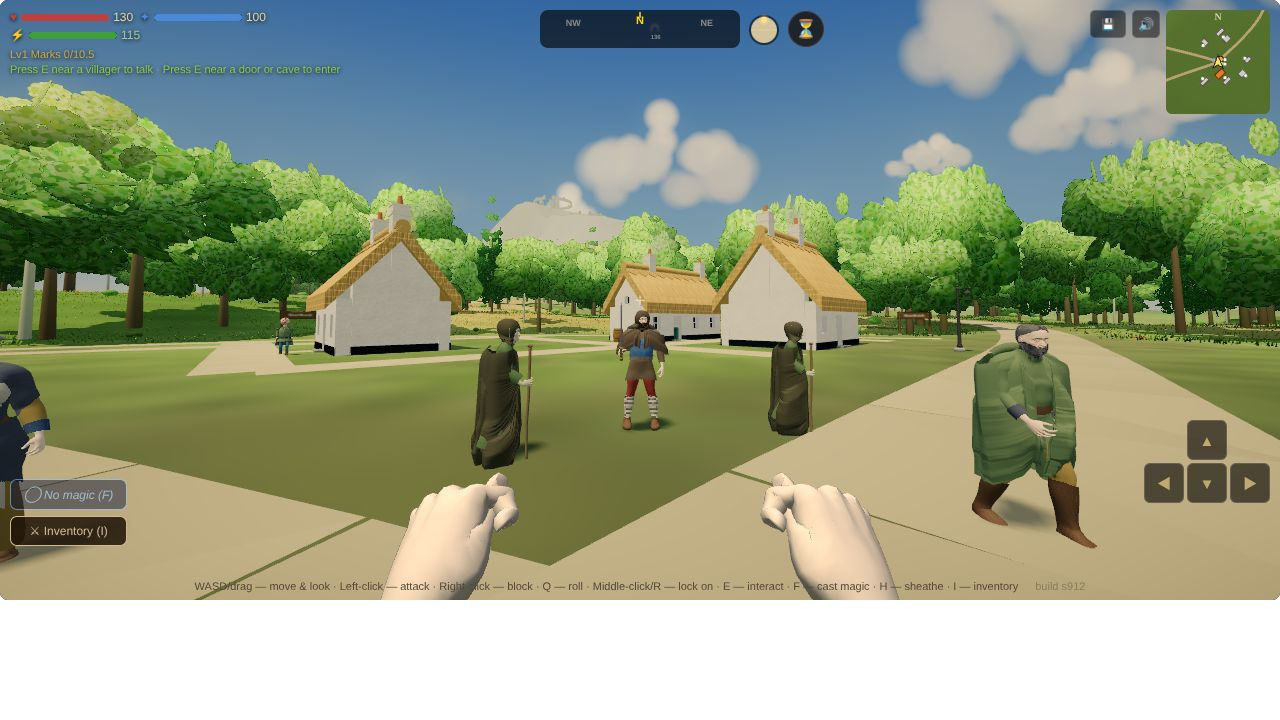
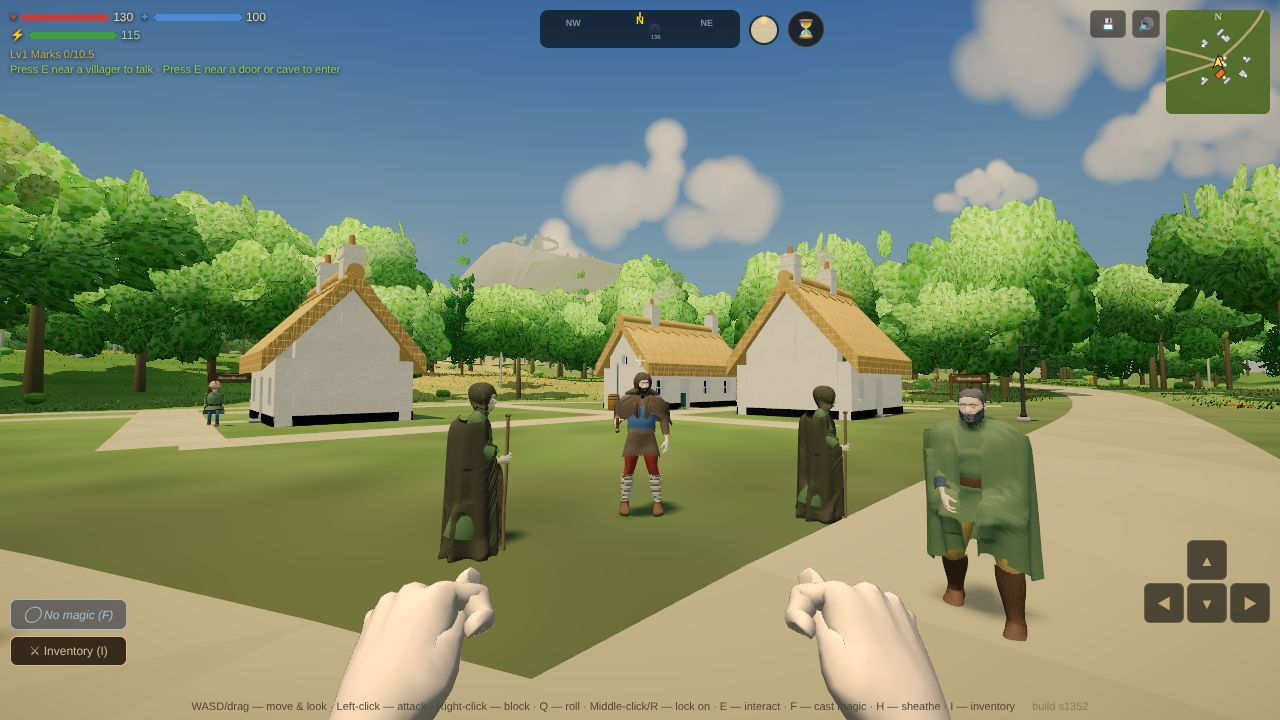
Bodies: Session 1977 — an old townsperson's walking staff goes down with the left foot and stays down
pwStaffWalk swings the staff arm with the left foot; hbStaffWalk pins the builder's
staff foot to the ground through that foot's stance (elbow solve, then shoulder aim)
and carries it on through the swing. gait: a new check (0 mm slide, 0 mm deep;
main 16.6 mm a tick, 49 mm deep).

Claude-Session: https://claude.ai/code/session_019eFMMoQ7EsSKyvhjHzmG3K

diff --git a/js/32-people.js b/js/32-people.js
@@ -1205,7 +1205,14 @@ function pwWalk(ph,o){const p=pwZero();const S=PW.STRIDE,D=PW.DUTY,phL=ph%1,phR=
   if(lim)pwShamble(p,c,s,lim,bs);
   if(o.goblin){pwGoblin(p,.3*c);p.thL[2]+=.1;p.thR[2]-=.1;p.anL[2]-=.1;p.anR[2]+=.1;}
   if(o.wraith)pwWraith(p,ph*6.28); // the game never walks a wraith (tickPeople); the inspector's walk shows it reaching as it glides
-  if(o.holds)pwHold(p,-.08*c,o.gear);return p;}
+  if(o.holds){pwHold(p,-.08*c,o.gear);if(o.staff)pwStaffWalk(p,phL);}return p;}
+// S1977 (L1, OG-001/OG-065: the old who walk leaning on a staff; owed since Session 1130) — a staff in the right fist goes down with the
+// left foot and stays where it went down while that foot carries the body, then swings on with it, as a stick is used: the right
+// upper arm follows the left foot's way under the body (PW.STAFF.REACH, the shoulder to the staff's foot in figure units) and the trunk
+// leans forward onto it. The builder's body plants the foot exactly (hbStaffWalk); this is the swing that brings it near
+PW.STAFF={REACH:1.19,LEAN:.06};
+function pwStaffWalk(p,f){const S=PW.STRIDE,D=PW.DUTY;let z;if(f<D)z=S-2*S*(f/D);else{const u=(f-D)/(1-D);z=-S+2*S*u*u*(3-2*u);}
+  p.shR[0]=-.12-Math.asin(pwClamp(z/PW.STAFF.REACH));p.spine[0]+=PW.STAFF.LEAN;}
 // S535 — a goblin (Michael, the inspector: "Looks a bit too friendly/humanoid", distort and contort it): crouched and hunched,
 // the head thrust forward on the neck so the face stays up, the long arms hanging wide and swinging (sw)
 function pwGoblin(p,sw){p.spine[0]+=.38;p.neck[0]-=.32;p.head[0]-=.06;
@@ -1254,7 +1261,7 @@ function pwWave(t,o){const p=pwIdle(t,o);const w=Math.sin(t*7.5);
   else{p.shR=[-.25,0,-2.35];p.elR=[0,-.2,-.55+.42*w];p.wrR=[0,0,.25*w];p.neck=[0,-.18,0];p.head=[.04,0,-.08];p.spine=[p.spine[0],-.06,.03];}
   return p;}
 // the pose options a rig walks and stands with; a ghoul limps on the leg its seed picks (S534)
-function pwOpts(rig){const g=rig.g;return {holds:rig.holds,gear:g.gear,elder:g.age==='elder',limp:g.ghoul?((g.seed>>>0)%2?1:-1):0,goblin:!!g.goblin,wraith:!!g.wraith,stoop:rig.stoop||0};}
+function pwOpts(rig){const g=rig.g,hd=rig.hbG&&rig.hbG.dress;return {holds:rig.holds,gear:g.gear,staff:g.gear==='stick'&&(!rig.hbG||!!(hd&&hd.staff)),elder:g.age==='elder',limp:g.ghoul?((g.seed>>>0)%2?1:-1):0,goblin:!!g.goblin,wraith:!!g.wraith,stoop:rig.stoop||0};}
 // blend toward the chosen motion over about a third of a second
 // S210 — a crouch on the haunches, leaning forward with the head up, the hands down by the feet: the gargoyle's statue pose
 function pwCrouch(t,o){const p=pwZero();const h=.2,z=.07;const [th,kn]=pwIK(z,-h);
@@ -1996,7 +2003,35 @@ function hbPose(rig){const H=rig.hb,B=rig.B,map=H.map,grip=H.grip&&rig.holds&&!r
     hbRel(B[j],rig.root,_hbq).multiply(H.s0[i]);if(hf>0&&H.hold.has(i)){const k=rig.tpHold?hf*(rig.tpHold[j.slice(-1)]||0):hf;if(k>0)_hbq.copy(_hbqA.copy(_hbq).slerp(_hbqH,k));}_hbq.multiply(H.t0[i]);
     if(b.parent&&b.parent!==H.P.root){hbRel(b.parent,H.root,_hbq2).invert();b.quaternion.copy(_hbq2.multiply(_hbq));}else b.quaternion.copy(_hbq);}
   const hp=B.hips.position,rb=map[0][1];_hbv.set(hp.x,hp.y-PW.HIPS,hp.z).applyMatrix3(H.A);_hbv.y*=H.kh;rb.position.copy(H.pos0).add(_hbv.applyMatrix3(H.Bi));
-  if(grip&&rig.thrust>0){const wb=(map.find(m=>m[0]==='wrR')||[])[1],sp=wb&&foeSpearOf(rig,H.root,wb);if(sp)foeSpearAim(rig,wb,sp);}}
+  if(grip&&rig.thrust>0){const wb=(map.find(m=>m[0]==='wrR')||[])[1],sp=wb&&foeSpearOf(rig,H.root,wb);if(sp)foeSpearAim(rig,wb,sp);}
+  if(grip&&!rig.foe)hbStaffWalk(rig);}
+// S1977 — the staff planted (L1; pwStaffWalk swings it near): while the left foot is down the staff's foot stays on the ground where it
+// went down, and through the left foot's swing it is carried on to the next, lifted HB_STAFF.LIFT at the middle, by bending the right
+// elbow and turning the upper arm toward it. Its weight is the walk's, so standing, running
+// or a blow the arm is the pose's. Only the builder's own staff, on townsfolk; the far driver keeps pwStaffWalk's swing. The elbow does
+// most of it: the arm hangs nearly straight down the staff (164° at the elbow), and as the body passes over the foot the shoulder comes
+// 7 cm nearer it, which takes up to 0.67 rad more bend (HB_STAFF.BEND)
+const HB_STAFF={LIFT:.05,TURN:1,BEND:1},_hbsT=new THREE.Vector3(),_hbsA=new THREE.Vector3(),_hbsB=new THREE.Vector3(),_hbsP=new THREE.Vector3(),_hbsQ=new THREE.Quaternion(),_hbsR=new THREE.Quaternion();
+function hbStaffWalk(rig){const H=rig.hb,w=rig.w;
+  if(H.staffW===undefined){let st=null;H.root.traverse(o=>{if(o.name==='staff')st=o;});const ua=(H.map.find(m=>m[0]==='shR')||[])[1],la=(H.map.find(m=>m[0]==='elR')||[])[1];
+    H.staffW=st&&ua&&la?{st,ua,la,P:null,from:null,on:false}:null;}
+  const S=H.staffW;if(!S||!w)return;const k=Math.max(0,Math.min(1,(w.walk||0)-(w.run||0)-(w.wave||0)));if(k<.02||rig.thrust>0){S.P=null;S.on=false;return;}
+  H.root.updateMatrixWorld(true);S.st.getWorldPosition(_hbsT);
+  const open=activeZoneId==='world'&&!hbIndoors()&&typeof worldH==='function',gy=(x,z)=>{rig.root.getWorldPosition(_hbsP);return open?_hbsP.y+worldH(x,z)-worldH(_hbsP.x,_hbsP.z):_hbsP.y;};
+  const f=(rig.phase%1+1)%1,D=PW.DUTY,tg=_hbsB;
+  if(f<D){if(!S.on||!S.P){S.P=new THREE.Vector3(_hbsT.x,gy(_hbsT.x,_hbsT.z),_hbsT.z);S.on=true;}tg.copy(S.P);}
+  else{if(S.on){S.from=S.P;S.on=false;}const u=(f-D)/(1-D),e=u*u*(3-2*u);tg.set(_hbsT.x,gy(_hbsT.x,_hbsT.z)+HB_STAFF.LIFT*Math.sin(Math.PI*u),_hbsT.z);if(S.from)tg.lerp(S.from,1-e);}
+  tg.lerp(_hbsT,1-k);
+  // the elbow first, bent in the plane of the arm and the staff until the shoulder reaches the staff's foot as far as the target is;
+  // then the upper arm turned to aim it there
+  S.ua.getWorldPosition(_hbsP);S.la.getWorldPosition(_hbsA);const a=_hbsA.distanceTo(_hbsP),b=_hbsA.distanceTo(_hbsT),es=_hbsP.clone().sub(_hbsA),et=_hbsT.clone().sub(_hbsA);
+  const c=Math.max(Math.abs(a-b)+1e-3,Math.min(a+b-1e-3,tg.distanceTo(_hbsP))),g0=es.angleTo(et),g1=Math.acos(pwClamp((a*a+b*b-c*c)/(2*a*b))),n=es.clone().cross(et);
+  if(n.lengthSq()>1e-10)hbStaffTurn(S.la,_hbsQ.setFromAxisAngle(n.normalize(),Math.max(-HB_STAFF.BEND,Math.min(HB_STAFF.BEND,g1-g0))));
+  S.st.getWorldPosition(_hbsT);_hbsA.subVectors(_hbsT,_hbsP);const t2=tg.clone().sub(_hbsP);
+  if(_hbsA.lengthSq()>1e-8&&t2.lengthSq()>1e-8){_hbsQ.setFromUnitVectors(_hbsA.normalize(),t2.normalize());const ang=2*Math.acos(Math.min(1,Math.abs(_hbsQ.w)));
+    if(ang>HB_STAFF.TURN)_hbsQ.slerp(_hbsR.identity(),1-HB_STAFF.TURN/ang).normalize();hbStaffTurn(S.ua,_hbsQ);}}
+// a bone turned by a rotation given in the world's frame, its children with it
+function hbStaffTurn(b,q){b.parent.getWorldQuaternion(_hbsR);b.getWorldQuaternion(_hbq3);b.quaternion.copy(_hbsR.invert().multiply(q.multiply(_hbq3)));b.updateMatrixWorld(true);}
 // a foe's glow: the driver's emissive on every material of the builder's body, and the parry's stagger (which swaps the driver's
 // material for a yellow clone, 74-strikes.js) as a strong gold; the materials the kill clones are the ones on the meshes now
 function hbGlow(rig){const H=rig.hb,m=rig.mesh.material;let em=m&&m.emissive?m.emissive.getHex():0;if(m!==H.drv&&m&&m.color&&m.color.getHex()===0xffdd44)em=0xb08010;

diff --git a/docs/backlog.md b/docs/backlog.md
@@ -554,7 +554,7 @@ Michael marked all 96 images of the intake on the review page: 63 KEEP and 33 NO
 - **The Old Blood's look** (look builder; OG-066): keep the canon body (short, slight, grey-pale, black hair) and take the dress: dark asymmetric layers over undyed linen, dot embroidery, a stone-and-iron amulet; bone, ash, slate, oxblood, dusk violet; OG-066's eye strip for the Cold's greying eyes. The marks are pale raised lines under the skin, not ink, and they spread with the Cold (Michael's 2 B; canon §3.1). **The stone-and-iron amulet and the belt's charms, in the builder, Session 1042** (bodies builder; `people.js` `buildBeltCharms`, `D.amulet`, `D.charms`, `builder-charms-*.jpg`): a round stone 4.4 cm across in slate, ash or dusk grey-violet, bound in iron (rim, a strap down its face, a boss, a bail), hung 4.5 cm under the belt's lower edge on the left hip (three in ten on the right) on a leather thong; beside it a boar's tooth bound at the root, a small iron ring and an oxblood stone bead, each on its own thong lying over the cloth; 23 of 40 Old Blood roll the amulet and 21 the charms; owed: the game (after F4); ~~the dot embroidery's laying~~ — done, Session 1142 (Michael's A on #432, asked in Session 1125 for the critic's "oxblood dots on cream read as spatter": powdered by default, every colour kept, `builder-dots-powder-*.jpg`; the drifts kept for a genome that asks for `'drift'`); ~~the dark asymmetric layers and the single shoulder wrap~~ — done, Session 1051 (`buildSash(…, { wrap: true })`, `D.shoulderWrap`, `builder-swrap-*.jpg`: the sash's loop built wide in plain dark wool, 17 cm over the shoulder, 30 over the chest and back, 13 at the hip, five folds laid outward, 11,520 tris; hair under it cut, so it goes in under; the amulet moves to the shoulder's side; 7 of 60 Old Blood roll it; whether OG-066 also means a second, cut-away over-layer wants its full image); ~~the marks under the skin~~ — done, Session 1052 (`markSkin` in the skin's shader, `G.marks` the Cold, `builder-marks-*.jpg`: pale raised branching lines at both wrists, the backs of the hands and the shoulder blades, carried up the arm to the cheek as the Cold rises from 0 to 1; 95 of 120 Old Blood marked, 15 carrying the Cold; ~~the eye strip for the Cold's greying eyes~~ — done, Session 1053 (the same `cold` takes the eyes toward an ice grey and deepens the pallor, on `makePerson`'s copy only; `builder-cold-face0.jpg`, `-face1.jpg`)); ~~the dot embroidery~~ — done, Session 1043 (`DOTS` in `clothMat`, `D.dots`, `builder-dots-*.jpg`: knots of thread 2 to 4 mm across scattered in drifts over the tunic, and over a skirt of the tunic's own cloth; oxblood, slate or dusk violet on undyed linen, bone on a dark tunic; 47 of 120 Old Blood roll it).
 - **Proportions for people** (look builder, `32-people.js`; OG-012, OG-095; Michael's 1 B): the heroic hybrid, about 1.80 m, slightly longer legs and broader shoulders than naturalistic, so a figure reads at a distance and in a fight. Leave room for the short Old Blood and the tall Markmen on either side.
 - **The creator, with the four peoples** (interface; OG-050): a list of choices on the left, the portrait on the right, six builds (default, stout, lean, tall, young, mature), five silhouettes, a hair-and-beard strip. Its races become the four peoples, Old Blood included (§2.2).
-- **Children, the old and the hurt in towns** (look builder and systems; OG-081, OG-001, OG-065): child-scale people (the towns have only Finn), the elderly, scars and eyepatches, a veteran in a wheeled chair (Garrick), large and small builds. ~~**Scars and eyepatches**~~ — done, Session 1079 (bodies builder; `people.js` `scarSkin`, `G.scar`, `buildEyepatch`, `D.eyepatch`, `builder-hurt-*.jpg`: an old cut from over the brow across the eye to the cheek drawn in the skin's shader, paler, raised and stitched, a gap in the brow; a leather patch 5 by 3.8 cm spanning the socket 1.3 mm off the face on a cord looped over the far temple and the near ear, nothing through either; 1 man in 14 and 1 woman in 40 scarred, a quarter of them patched); ~~**Children**~~ — done, Session 1081 (bodies builder; MakeHuman's child targets in the pack, the age slider from 11, `rollGenome(seed, { people, child: true })`, `builder-children*.jpg`: 11 to 15 years old, 79 to 93 per cent of their people's stature, dressed as their people, nothing a grown body carries, cloaks cut to them; every hair style clear on a child of 11); ~~**The old**~~ — done, Session 1082 (bodies builder; `rollGenome(seed, { people, old: true })`, `pose.stoop`, `builder-old-*.jpg`: 64 to 90, the hair to white or iron grey, a stoop in the upper back on six in ten with the arms still plumb); ~~**The old's walking staff**~~ — done, Session 1085 (bodies builder; `people.js` `buildStaff`, `STAFFS`, `D.staff`, `D.staffMake`, `builder-staff-*.jpg`: in the right fist on the spear's grip, its foot on the ground, bent about a centimetre and true through the fist; a hazel staff with its root knob for the Gatelands, ash shod in iron for the Mark, olive with a bronze knob for Aurenne, and OG-042's and OG-065's tall staff carved in knotwork for the Old Blood; on 25 to 39 of sixty old, none of the grown or the children); ~~a grip that leans on the staff~~ — done, Session 1094 (`STAFF_ARM`: the forearm dropped 38° forward and down, the fist at the belt, 57 to 59 per cent up the body, the staff's foot 8 to 16 cm ahead of the toes; `builder-staff-*.jpg`); ~~the wheeled chair~~ — done, Session 1106 (bodies builder; `people.js` `buildChair`, `SEAT`, `D.chair`, `builder-chair-*.jpg`: Garrick seated, the thighs level and the shins sloped to a footboard, the forearms laid on the chair's arms with the palms turned down over their ends; an oak armchair built to the seated body, 7,700 tris, on two iron-tyred cart wheels 62 cm across and two small ones under the front legs, push handles behind; nothing that hangs to the ground is worn in it, and it is never rolled); ~~his black wolfhound~~ — done, Session 1107 (`creatures.js` `wolfhound`, `HOUNDS`, `creatures-hounds.jpg`: the kit's first dog, a rough-coated sighthound on the wolf's parts, 81 cm at the top of the legs against the grey wolf's 74, deep in the chest and tucked up in the loin, a long narrow head with its ears folded back, 33 bones, 40,164 tris); ~~the crossbow across his knees~~ — done, Session 1116 (`people.js` `buildLapCrossbow`, `builder-chair-crossbow*.jpg`: OG-065's long gun as the crossbow the catalogue asks for, laid level across the thighs over the knees, the bolt's face up, the butt to his right and the prod out past the left wheel, let down to 2 mm off the thighs and moved forward until nothing of it is in the chair or a hand; a crossbow asked with the chair now lies there instead of being dropped); ~~the hound sitting by the chair~~ — done, Session 1114 (`creatures.js` `GAITS.sit`, `sitBody`, `sitLeg`, `creatures-wolfhound-sit*.jpg`: a sit for any four-legged plan, the body pitched up about the shoulders until the haunch and shins are 5 mm off the ground, 52° on the hound, the forefeet where it stands, the hind legs folded with the hocks back and the toes 21 cm ahead of the hips, the tail laid back along the ground and curled round; on the wolfhound, and since Session 1115 on every plan built on the Ironwolf's, the red fox's or the Hollowcat's parts, eleven in all, each tail lifted only as far as its flesh needs); ~~the hound lying down~~ — done, Session 1117 (`GAITS.lie`, `lieLeg`, `creatures-wolfhound-lie*.jpg`: a sphinx's lie, lowered level until the belly and haunch are 5 mm off the ground, the withers from 81 to 24 cm, the forelegs laid forward from the elbow 12 cm ahead of where it stands, the hind legs folded as they sit, the head up); ~~the lie on the other sitters~~ — done, Session 1122 (all eleven plans lie, `creatures-lying.jpg`: the forearm left out of the drop's search and raised by its own, `C.sitF`, so the foxes' and cats' bodies come down to 5 mm and their forearms clear the ground); ~~the hound beside Garrick's chair in one picture~~ — done, Session 1123 (the builder's `with=PLAN` stage, `builder-chair-hound*.jpg`: the wolfhound lying 8 cm off his right wheel, its nose level with the footboard, or sitting 35 cm back, turning with him); ~~the lying head held up~~ — done, Session 1124 (`SIT.lieNeck`: the neck raised 0.3 rad along its bones and the head turned back level, 1 to 5 cm higher on all eleven); ~~the cats sit with their forefeet together~~ — done, Session 1126 (`sitTuck`, `creatures-cats-sit.jpg`, `creatures-hollowcat-sit-front.jpg`: the Hollowcat and both lynxes keep 30% of their forefeet's standing width, 1.5 cm off the middle against 5.0); ~~the cats' tail wrapped round~~ — done, Session 1130; owed: children under 11 (MakeHuman's baby targets), a walk that leans on the staff, the chair pushed (B4), and the game (after F4).
+- **Children, the old and the hurt in towns** (look builder and systems; OG-081, OG-001, OG-065): child-scale people (the towns have only Finn), the elderly, scars and eyepatches, a veteran in a wheeled chair (Garrick), large and small builds. ~~**Scars and eyepatches**~~ — done, Session 1079 (bodies builder; `people.js` `scarSkin`, `G.scar`, `buildEyepatch`, `D.eyepatch`, `builder-hurt-*.jpg`: an old cut from over the brow across the eye to the cheek drawn in the skin's shader, paler, raised and stitched, a gap in the brow; a leather patch 5 by 3.8 cm spanning the socket 1.3 mm off the face on a cord looped over the far temple and the near ear, nothing through either; 1 man in 14 and 1 woman in 40 scarred, a quarter of them patched); ~~**Children**~~ — done, Session 1081 (bodies builder; MakeHuman's child targets in the pack, the age slider from 11, `rollGenome(seed, { people, child: true })`, `builder-children*.jpg`: 11 to 15 years old, 79 to 93 per cent of their people's stature, dressed as their people, nothing a grown body carries, cloaks cut to them; every hair style clear on a child of 11); ~~**The old**~~ — done, Session 1082 (bodies builder; `rollGenome(seed, { people, old: true })`, `pose.stoop`, `builder-old-*.jpg`: 64 to 90, the hair to white or iron grey, a stoop in the upper back on six in ten with the arms still plumb); ~~**The old's walking staff**~~ — done, Session 1085 (bodies builder; `people.js` `buildStaff`, `STAFFS`, `D.staff`, `D.staffMake`, `builder-staff-*.jpg`: in the right fist on the spear's grip, its foot on the ground, bent about a centimetre and true through the fist; a hazel staff with its root knob for the Gatelands, ash shod in iron for the Mark, olive with a bronze knob for Aurenne, and OG-042's and OG-065's tall staff carved in knotwork for the Old Blood; on 25 to 39 of sixty old, none of the grown or the children); ~~a grip that leans on the staff~~ — done, Session 1094 (`STAFF_ARM`: the forearm dropped 38° forward and down, the fist at the belt, 57 to 59 per cent up the body, the staff's foot 8 to 16 cm ahead of the toes; `builder-staff-*.jpg`); ~~the wheeled chair~~ — done, Session 1106 (bodies builder; `people.js` `buildChair`, `SEAT`, `D.chair`, `builder-chair-*.jpg`: Garrick seated, the thighs level and the shins sloped to a footboard, the forearms laid on the chair's arms with the palms turned down over their ends; an oak armchair built to the seated body, 7,700 tris, on two iron-tyred cart wheels 62 cm across and two small ones under the front legs, push handles behind; nothing that hangs to the ground is worn in it, and it is never rolled); ~~his black wolfhound~~ — done, Session 1107 (`creatures.js` `wolfhound`, `HOUNDS`, `creatures-hounds.jpg`: the kit's first dog, a rough-coated sighthound on the wolf's parts, 81 cm at the top of the legs against the grey wolf's 74, deep in the chest and tucked up in the loin, a long narrow head with its ears folded back, 33 bones, 40,164 tris); ~~the crossbow across his knees~~ — done, Session 1116 (`people.js` `buildLapCrossbow`, `builder-chair-crossbow*.jpg`: OG-065's long gun as the crossbow the catalogue asks for, laid level across the thighs over the knees, the bolt's face up, the butt to his right and the prod out past the left wheel, let down to 2 mm off the thighs and moved forward until nothing of it is in the chair or a hand; a crossbow asked with the chair now lies there instead of being dropped); ~~the hound sitting by the chair~~ — done, Session 1114 (`creatures.js` `GAITS.sit`, `sitBody`, `sitLeg`, `creatures-wolfhound-sit*.jpg`: a sit for any four-legged plan, the body pitched up about the shoulders until the haunch and shins are 5 mm off the ground, 52° on the hound, the forefeet where it stands, the hind legs folded with the hocks back and the toes 21 cm ahead of the hips, the tail laid back along the ground and curled round; on the wolfhound, and since Session 1115 on every plan built on the Ironwolf's, the red fox's or the Hollowcat's parts, eleven in all, each tail lifted only as far as its flesh needs); ~~the hound lying down~~ — done, Session 1117 (`GAITS.lie`, `lieLeg`, `creatures-wolfhound-lie*.jpg`: a sphinx's lie, lowered level until the belly and haunch are 5 mm off the ground, the withers from 81 to 24 cm, the forelegs laid forward from the elbow 12 cm ahead of where it stands, the hind legs folded as they sit, the head up); ~~the lie on the other sitters~~ — done, Session 1122 (all eleven plans lie, `creatures-lying.jpg`: the forearm left out of the drop's search and raised by its own, `C.sitF`, so the foxes' and cats' bodies come down to 5 mm and their forearms clear the ground); ~~the hound beside Garrick's chair in one picture~~ — done, Session 1123 (the builder's `with=PLAN` stage, `builder-chair-hound*.jpg`: the wolfhound lying 8 cm off his right wheel, its nose level with the footboard, or sitting 35 cm back, turning with him); ~~the lying head held up~~ — done, Session 1124 (`SIT.lieNeck`: the neck raised 0.3 rad along its bones and the head turned back level, 1 to 5 cm higher on all eleven); ~~the cats sit with their forefeet together~~ — done, Session 1126 (`sitTuck`, `creatures-cats-sit.jpg`, `creatures-hollowcat-sit-front.jpg`: the Hollowcat and both lynxes keep 30% of their forefeet's standing width, 1.5 cm off the middle against 5.0); ~~the cats' tail wrapped round~~ — done, Session 1130; owed: children under 11 (MakeHuman's baby targets), ~~a walk that leans on the staff~~ — done, Session 1977 (`32-people.js` `pwStaffWalk`, `hbStaffWalk`, `HB_STAFF`; `gait`'s new check; `docs/prototypes/f4/f4-staff-walk.jpg`: in the game the builder's staff goes down with the left foot and holds still while it is planted, then swings on with it), the chair pushed (B4), and the game (after F4).
 - **The wardrobe matrix** (look builder, the builder's B2, `docs/design/character-builder.md`; OG-109, OG-110, OG-111): for each island, men's and women's workwear, everyday, formal, travel and winter dress, by class (commoner, merchant, noble, warrior, clergy, scholar), and children's clothes as small copies of their parents'. The Gatelands in wool, linen and leather, earth greens and muted blue, laced bodices, hooded cloaks, tartans a new note; the Mark in heavy wool with fur trims and woven bands; Aurenne in linen, cotton and silk, sashes, turbans and head scarves in saffron, red and teal. OG-110's half-length pairs and its swatches (weave, fur, leather, ironwork clasps) are the close-up reference for the cloth. The canon wins where the sheets drift: the Mark's soldiers in black and iron, and its “runic tattoos” are the gates' marks under the skin (§3.1), not ink. **The Gatelanders' waistcoat, Session 1143** (bodies builder; `people.js` `D.waistcoat`, `waistcoatLeather`, `buildButtons`, `builder-waistcoat-*.jpg`): OG-109's "tunics, waistcoats", a man's sleeveless piece over the tunic in earth green, brown, muted blue or a dark drab, or brown leather on three in ten, a V at the neck and six buttons down the closed front, ending under the belt; on 35% of Gatelander men from a stream of its own; the lapped front's edge drawn as its shadow, Session 1144 (`WAISTCOAT_EDGE`, `clothMat`'s `shade`); owed: the game (after F4), and the rest of the matrix (formal, travel and winter dress by class). **The Gatelanders' tartan, Session 1146** (bodies builder; `people.js` `TARTAN`, `D.tartan`, `D.tartanLine`, `builder-tartan-*.jpg`): OG-111's "tartans", a symmetric sett 16.8 cm across (the cloak's colour as the ground, two dark bands side by side, a fine overcheck) woven in a 2/2 twill on 1.5 mm threads in the shader. It is laid round the wearer from the back's middle, on the cloak, the cape and the hood up or down. Rolled on no one until Michael answers where it goes (DECISION #445); owed: that answer, the roll, and the game (after F4). **The Gatelanders' winter coat, Session 1147** (bodies builder; `people.js` `D.coat`, `D.coatFur`, `coatLen`, `coatOn`, `coatStats`, `builder-coat-*.jpg`): OG-109's winter column, "fur-lined winter coats": a wool coat over the tunic, sleeves to the wrist, a skirt flaring to mid-calf (`coatLen` .75; 0 a jacket, 1 the ankle), the right front lapped over the left and belted over; a fur trim at the collar, down the lapping edge, round the cuffs and the hem, seven shells cut from the regions they cover. It takes the place of the cloak, mantle, apron, sash, shoulder wrap, waistcoat and bodice, and gives way to a robe, mail, a tabard or the chair. Rolled on no one: who wears it, and when, is the season's (the game's) to say; owed: the Mark's fur-lined hooded coat, and the game (after F4). ~~**Worn in the game**~~ — done, Session 1763 (`hbSeasonDress`, `HB_WINTER`, `f4-winter.jpg`): in winter, out of doors, a Gatelander one in two (fur-trimmed on half), a Markman 0.85 (fur-lined, hooded, the hood up on three in ten), the Old Blood 0.35, an Aurennais one in four in the burnous; none indoors, none on a guard, a robe or the chair; keyed `<key>|winter`; `f4people`. **The Gatelanders' tartan, Sessions 1146 and 1151** (bodies builder; `people.js` `TARTAN`, `D.tartan`, `tartanLine`, `PEOPLES.gatelander.setts`, `builder-tartan-*.jpg`): a sett woven into the cloak, the cape and the hood; Michael's A on #445, a note on cloaks: one Gatelander cloak or cape in five, in one of three setts, nobody else. Owed: the game after F4. **The Mark's fur-lined hooded coat, Session 1152** (bodies builder; `people.js` `D.coatHood`, `hoodUpOn`, `buildHoodUp`'s `clr` and `fur`, `builder-coathood-*.jpg`): OG-109's Mark column, the winter coat's hood up in its wool with a fur ruff round the face (seven shells, 11.8 to 13.1k triangles; ~~its cost~~ — Session 1165: 4.9 to 5.5k, the triangles its shader discards whole left out). The hood down, Session 1153 (`buildCoatHoodDown`, `rollAt`, `builder-coathood-down-*.jpg`): a roll of the coat's wool across the upper back, 768 triangles, the hair set out over it. Owed: the game after F4. **The Mark's formal dress, its woven bands, Session 1156** (bodies builder; `people.js` `D.bands`, `D.bandsMotif`, `LOZ`, `builder-bands-*.jpg`): OG-109's Mark formal column, "blue and red, with woven bands": a tablet-woven band in the shader at the tunic's neck, round both cuffs (built in the tunic's colour where there were none) and 4 cm up the skirt's hem, short or long; a ground with a thread of the motif at each edge and a row of lozenges, stepped to the threads. None under a coat or a robe. ~~Rolled on no one: who dresses formally, and when, is the game's (rank, a feast) to say~~ — **worn on the feasts, Session 1767** (`hbFeastDress`, `HB_FEAST`, `f4-feast.jpg`): on the four feasts seven in ten of the Mark's folk, indoors and out, a man's tunic to the knee, the apron off; keyed `<key>|feast`; `f4people`. Owed: by rank on other days (no rank in a townsperson's def yet). ~~A long gown's band fitted to its own ragged cut~~ — done, Session 1163 (`lozHemY`, a table of 48 heights round the body; `builder-bands-hem*.jpg`). ~~The formal tunic worn longer~~ — done, Session 1164 (`skirt: 'knee'`, the long skirt's shell cut at rest -.345, at the kneecap, the band on its hem; `builder-knee-*.jpg`). ~~The women's mantle over the gown~~ — done, Session 1203 (OG-110's Mark woman in white fur over blue: two in five of the Mark women's fur mantles in white fox, cream ermine or snow hare, `PALE_FUR`, from a stream of their own; and every mantle's hem, neckline and arm edges cut in the shader, `MANTLE_CUT`, the outer shells thinning to the edge and the collar folding in on the throat; `builder-mantle-*.jpg`). Owed: the game after F4. **The Aurennais men's striped robe, Session 1205** (bodies builder; `people.js` `STRIPES`, `stripeOf`, `D.robeStripe`, `D.robeStripeLine`, `PEOPLES.aurennais.robes`, `builder-striped-*.jpg`): OG-110's Aurenne man "in a striped robe" and OG-109's flowing robes: the robe woven with warp stripes in the shader, 5.6 cm a repeat (the ground, a 1.6 cm stripe, a 0.4 cm fine line), laid round the torso's axis down the body and the skirt (17 repeats round, no seam) and round each arm's own axis down the sleeve (shoulder to elbow, elbow to wrist); one Aurennais man in five wears a robe in place of the tunic and trousers, three in four of them striped, in five Aurenne colourways, from a stream of its own. Owed: the game after F4. **The Aurennais women's circlet, Session 1206** (bodies builder; `people.js` `buildCirclet`, `CIRCLET`, `circletOn`, `D.circlet`, `D.circletStone`, `builder-circlet-*.jpg`): OG-110's Aurenne woman "in red and gold with a circlet": a band 7 mm high of gold or bronze round the head over the hair, 2.6 cm over the brows at the front, 2.2 cm lower at the back, 8 mm over the ears, fitted in 96 directions to the furthest point of the head or hair at its height, with a garnet or teal stone in an oval setting at the brow; 1,536 triangles in 3 draws, on the head bone; on 15% of the bare-headed Aurennais women, from a stream of its own. ~~OG-110's red and gold gown~~ — done, Session 1220. Owed: the game after F4. **The Aurennais women's embroidered gown, Session 1220** (bodies builder; `people.js` `EMB`, `embOf`, `embHem`, `D.gownBorder`, `PEOPLES.aurennais.gown`, `builder-gown-*.jpg`): OG-110's Aurenne woman "in red and gold" and OG-109's "embroidered formal dress in saffron, red and teal": a border embroidered in the shader on the gown's own cloth at the neck (2.8 cm, six waves round), the sleeves' ends (3.6 cm, six waves) and 2 cm up the hem (5.5 cm, thirteen waves round a long gown, off the cut's own table): a couched cord at each edge, a running vine with a ring and knot in each bay and a leaf at each crossing, satin-stitched, a little proud, lit as metal; one Aurennais woman in five in a long skirt and no apron, bodice and skirt in one cloth (madder on half, saffron or teal), gold thread (madder on two in five saffron gowns), from a stream of its own; 0 triangles added. Owed: the game after F4; ~~the sleeve's end ragged close in (S1220's note)~~ — done, Session 1228 (every sleeve number read on the forearm's own axis, `slvX`/`SLV_T`, so the cut, the cuffs, the bands and the border run square round the wrist, and the skin under the end is whole; `builder-sleeve-*.jpg`); ~~the neck border's lower cord clipped at the shoulder~~ — done, Session 1230 (the foot of a band round the neck, the gown's and the Mark's woven bands', is read off a table of 48 heights measured down the tunic's own surface, so it stops at the neck's base; `neckBandY`, `builder-neck-*.jpg`). **The Aurennais' burnous, Session 1236** (bodies builder; `people.js` `D.burnous`, `D.burnousStripe`, `burnousOn`, `burnousOf`, the hood's point and `tassel`, `builder-burnous-*.jpg`): OG-109's Aurenne winter column, the hooded cloak over the robe for the cold nights: the cloak woven with the robe's warp stripes in the burnous stripe's colour (34 repeats round the neck), tied at the throat with a knot of its own cord in place of the brooch; its raised hood drawn out to a point behind the crown, striped 17 round the head, with a tassel of 16 threads on a cord from the point; no tartan or fur; the hood down striped. Rolled on no one: when it is worn is the season's (the game's) to say, as the Gatelanders' coat. ~~The game~~ — done, Session 1763 (with the coats, below); ~~the hood down as a point hanging down the back (today it is the plain cloak's roll)~~ — done, Session 1770 (`buildBurnousPoint`, `BPOINT`, `tasselGeom`: below the roll a pointed bag of the striped wool 24 cm across, 34 cm down to its tassel, 8 mm off the cloak; 1,088 + 420 triangles; `builder-burnous-point*.jpg`; in the game through the bundle); ~~OG-109's Aurenne travel column (the head-wrap drawn across the face)~~ — done, Session 1237. **The Aurennais' veil, Session 1237** (bodies builder; `people.js` `buildVeil`, `veilOn`, `D.veil`, `builder-veil-*.jpg`): OG-109's Aurenne travel column, the head-wrap's end drawn across the face against the road's dust and sun: a band of cloth from 6 mm under the lower lids to 2 cm under the chin (and over a beard), rising past the eyes over the cheekbones and the ears to tuck under the wrap's lowest turn and round the nape, laid 5 mm clear on a radial map of what it covers and spanning from the nose to the chin as cloth does, with a rolled hem; 6,528 triangles in 1 draw on the head bone; in its own colour (indigo, or the wrap's); no ear-rings under it; only with a wrap that is not a headscarf. Rolled on no one: who is on the road is the game's. Owed: the game after F4. **The head-wrap's rolls turned out, Session 1238** (bodies builder; `buildWrap`'s turns and crossing turns and the veil's hems through `turnOut`, the `outward` stat): every wrap, turban and headscarf read its own shadow (its rolls' normals pointed in, so `normalBias` moved the lookup inside them) and went grey; a white turban now reads white (`builder-turban-man.jpg` against `-before`). ~~Owed: the same pass on the other rolls `tubeGeom` builds (the cloak's hood roll and the braids first).~~ — done: the braids, the bun and the lowered hood in Session 1255, the thin rolls in Session 1262, and the last, the cloak's fur collar (six shells, near black in its own shadow), Session 1931 (`builder-cloak-markman*.jpg` against `-before`).
 
 ### L2. Named people (quest writer for the words, look builder for the faces)

diff --git a/docs/devlog/1977.md b/docs/devlog/1977.md
@@ -1,0 +1,53 @@
+## v80 — Session 1977 — an old townsperson's walking staff goes down and stays down (L1; OG-001, OG-065)
+The bodies builder's run of 8 Nov, started 00:16 UTC. No `FREEZE:` issue was open. The lane's last branch (`auto/bodies-1974`, #1281)
+had landed, and its last commit was 100 minutes old. Section I has nothing for this lane. The highest session on any branch was 1976 (the
+systems builder's, landed as #1283), so this is 1977. The item is one of L1's owed lines under *Children, the old and the hurt in towns*:
+"a walk that leans on the staff". Since Session 1085 the builder has given a walking staff to a third of the old, and to half of the Old
+Blood's elders. In the game Dunmore's Clodagh and Cormac carry one. They hold it, but they do not walk on it.
+
+**What was wrong.** The walk held the staff rigid in the fist. The driver's hold (`pwHold`) let the upper arm take a little of the walk's
+swing, so the staff's foot rode along with the body. A probe (`tests/tmp`, thrown away) walked Clodagh at a stroll (0.7 m/s) and read the
+staff's foot every tick. It never stopped:
+- While her left foot was down, the staff's foot slid 277 mm along the ground in each step, 2–20 mm a tick.
+- It rose 15 mm off the ground and sank 49 mm into it.
+
+**What changed** (`js/32-people.js`; the builder and its bundle are untouched):
+- **`pwStaffWalk`, the driver's swing.** A staff is used as a stick is: it goes down with the opposite foot (the right hand's staff with the
+  left foot), stays where it went down while that foot carries the body, then swings on with it. The right upper arm now follows the left
+  foot's own way under the body (the stance's straight slide and the swing's eased arc), turned through the shoulder's reach to the staff's
+  foot (`PW.STAFF.REACH`, 1.19 figure units, 1.4 m on Clodagh). The trunk leans 0.06 rad further forward onto it. `pwOpts` passes `staff`
+  only where a staff is really in the fist. The elders whose genome rolled no staff (Maeve, and Fíachra the hermit) carry the driver's
+  stick, but their builder body's hand is empty, so they walk as before.
+- **`hbStaffWalk`, the builder's plant**, called at the end of `hbPose` for townsfolk (not foes, not the player) whose fist holds the
+  builder's staff:
+  - Planted: at the left foot's landing, the staff's foot is pinned to the ground under where it is. It is held there until that foot
+    lifts.
+  - Swinging: it is carried from there to where the pose has it, eased like the foot, and lifted 5 cm at the middle (`HB_STAFF.LIFT`).
+  - Each tick, the elbow bends in the plane of the arm and the staff until the shoulder reaches as far as the target. The arm hangs nearly
+    straight down the staff (164° at the elbow), and as the body passes over the foot the shoulder comes 7 cm nearer to it. That takes up
+    to 0.67 rad more bend (`HB_STAFF.BEND`, 1). Then the upper arm turns to aim it (`HB_STAFF.TURN`, 1 rad at most).
+  - The ground is the root's height, corrected by `worldH` in the open world.
+  - The weight is the walk's, less the run's and the wave's. Standing, running or striking, the arm is the pose's.
+  - Aiming the joints alone (the first try) left the foot 7 cm under the ground late in the stance, because aiming cannot shorten the
+    reach. The elbow's solve fixed it.
+- No triangles, meshes or draws change. A staff walker near the eye costs two `updateMatrixWorld` passes of the builder's arm a tick.
+
+The same probe after the change: the staff's foot holds to the millimetre for the whole stance (0 mm of slide, 0 mm under the ground), and
+lifts about 3 cm through the swing.
+
+### Verified (headless Chromium)
+- **`gait`, one new check:** Dunmore's first walker with the builder's staff (Clodagh), her body built near the eye, walked 160 ticks at
+  0.7 m/s. Over the last 80 ticks, inside the left foot's stance (a tick clear of each end), the staff's foot must move under 3 mm a tick
+  and stay within 15 mm of the ground, and in the swing it must travel over 400 mm. Result: 42 planted ticks, 0 mm of slide, 0 mm deep,
+  936 mm of swing, at level 0. `gait` 8/8 with no retry.
+- **The check catches the fault:** the same suite on main's code (a `tests/tmp` copy booted with `OG_SRC` on an `origin/main` worktree)
+  fails it: 16.6 mm a tick, 49 mm deep.
+- `f4people` 1/1 and `f4hags` 1/1, both with no retry: the arm checks under the cloak still pass, and the hag still walks with her staff. `parsecheck`: OK.
+- Pictures: `docs/prototypes/f4/f4-staff-walk.jpg` (this branch) and `f4-staff-walk-main.jpg` (main). Clodagh side on, at 0.05, 0.3 and
+  0.55 of the stride (planted) and 0.8 (swinging). In stills the two differ little; the difference is that the foot holds still.
+
+### Needs eyes
+- Whether the elbow's bend late in the stance, as she passes over the staff, reads as leaning on it or as a pumping arm at full speed.
+- The Marsh Hag (a foe) takes the driver's swing and the lean, but not the plant. A foe's walk can break into a blow at any tick.
+- The elders with a driver's stick and no builder staff (Maeve, Fíachra) still hold their right elbow bent at `pwHold`'s 0.45 around an
+  empty hand. That is older than this session, and is left for a session that gives the genome the role's staff.
